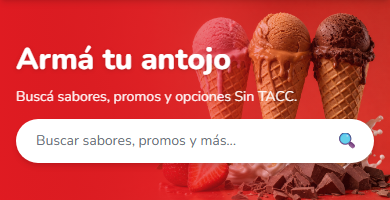
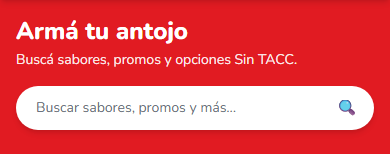
revert hero layout, only swap decorative box for 3-ice-cream image

diff --git a/src/components/Hero.tsx b/src/components/Hero.tsx
@@ -7,23 +7,23 @@ interface Props {
 
 export function Hero({ query, onQuery }: Props) {
   return (
-    <section
-      className="flex min-h-[200px] items-center bg-brand-red bg-cover bg-right px-4 pb-6 pt-4 text-white md:min-h-[320px]"
-      style={{
-        backgroundImage:
-          'linear-gradient(90deg, rgba(225,27,34,0.98) 0%, rgba(225,27,34,0.82) 38%, rgba(225,27,34,0.25) 72%, rgba(225,27,34,0.05) 100%), url(/hero.png)',
-      }}
-    >
-      <div className="mx-auto w-full max-w-6xl">
-        <div className="max-w-xl py-3 md:py-10">
-          <h1 className="text-3xl font-black leading-tight drop-shadow md:text-5xl">
-            Armá tu antojo
-          </h1>
-          <p className="mt-2 text-sm opacity-95 md:text-base">
-            Buscá sabores, promos y opciones Sin TACC.
-          </p>
+    <section className="bg-brand-red px-4 pb-6 pt-2 text-white">
+      <div className="mx-auto max-w-6xl">
+        <div className="flex items-center justify-between gap-4 py-2">
+          <div>
+            <h1 className="text-2xl font-black leading-tight md:text-4xl">Armá tu antojo</h1>
+            <p className="mt-1 max-w-md text-sm opacity-90">
+              Buscá sabores, promos y opciones Sin TACC.
+            </p>
+          </div>
+          <img
+            src="/hero.png"
+            alt=""
+            aria-hidden
+            className="hidden h-28 w-52 rounded-card object-cover object-right md:block"
+          />
         </div>
-        <div className="max-w-xl">
+        <div className="mt-2">
           <SearchBar value={query} onChange={onQuery} />
         </div>
       </div>
